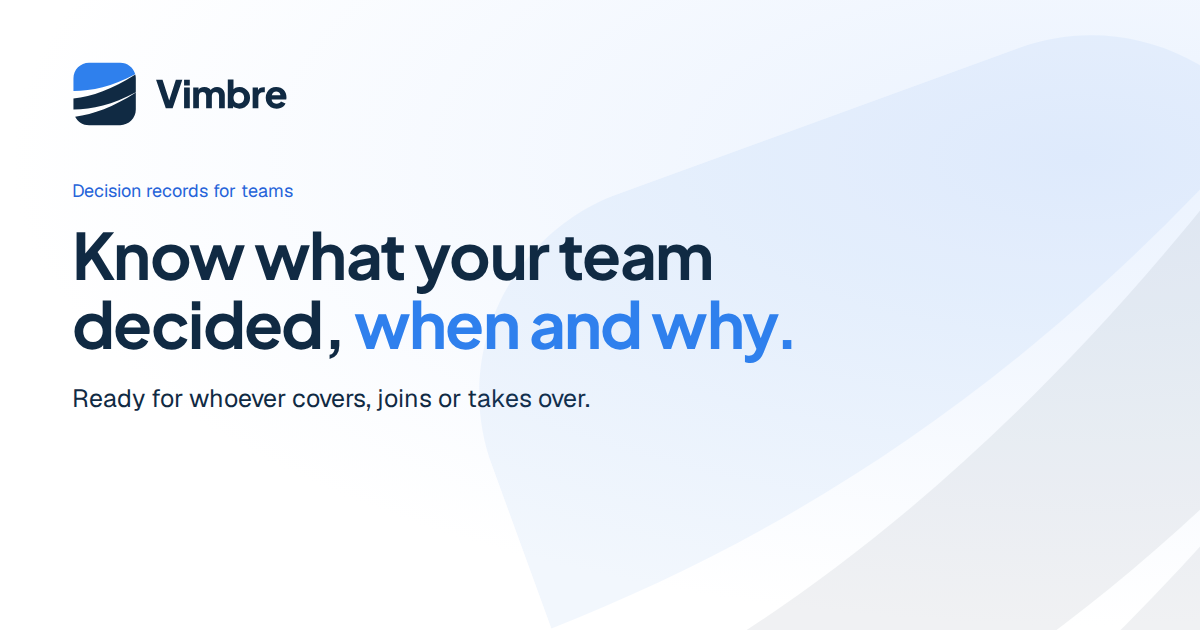
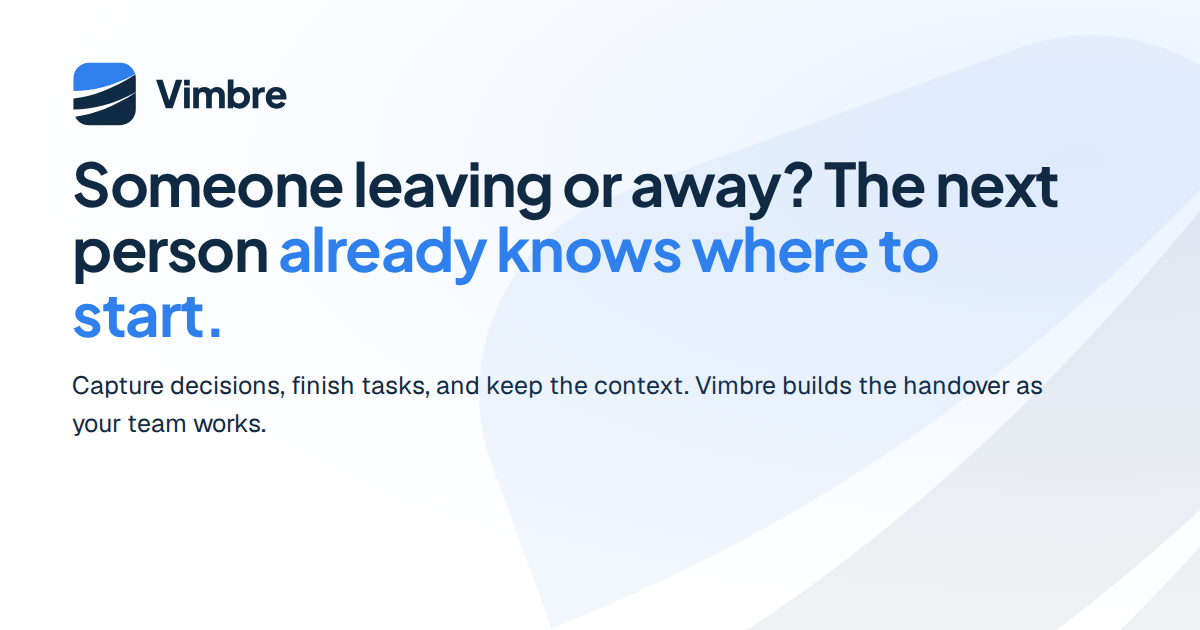
Align runtime page title and share image with revised homepage copy

Changed region(s): [[0.0617, 0.2413, 0.8942, 0.573], [0.0617, 0.6032, 0.8633, 0.6937]]

diff --git a/src/app/App.tsx b/src/app/App.tsx
@@ -66,7 +66,7 @@ function PageFocus() {
 
       document.title =
         pathname === '/'
-          ? 'Vimbre | Decision Records for Teams and Handovers'
+          ? 'Vimbre | Handover and Knowledge Retention for Teams'
           : `${heading.textContent} | Vimbre`
 
       window.dispatchEvent(new Event('vimbre:ready'))

diff --git a/docs/landing-repositioning.md b/docs/landing-repositioning.md
@@ -38,7 +38,7 @@ Production CI runs scripts/audit-public.cjs to record actual custom-domain statu
 
 ## Founder revision received 21 October 2026
 
-The owner supplies Pasted text(7).txt and screenshots of misaligned connector paths. This revision supersedes the previous decision-record lead and old 8.6-second tile animation. Use the new situation headline, daily loop, Week 1/4/12 role-record visual, Employees/Managers audience cards, six FAQs including Notion/ClickUp/Trello, and updated search/social copy. The supplied hero headline plus main line is 30 words; the exact additional small line and CTA labels take the total beyond 35. Preserve the explicitly supplied copy rather than silently deleting it. At a 5/7 column split the complete 56px headline cannot fit three lines; validate readable wrapping instead of clipping it.
+The owner supplies Pasted text(7).txt and screenshots of misaligned connector paths. This revision supersedes the previous decision-record lead and old 8.6-second tile animation. Use the new situation headline, daily loop, Week 1/4/12 role-record visual, Employees/Managers audience cards, six FAQs including Notion/ClickUp/Trello, and updated search/social copy. The supplied hero headline plus main line is 28 words; the exact additional small line and CTA labels take the total beyond 35. Preserve the explicitly supplied copy rather than silently deleting it. At a 5/7 column split the complete 56px headline cannot fit three lines; validate readable wrapping instead of clipping it.
 
 Use one 13.2-second desktop product window, 9 seconds on mobile, two plays and a static final cover frame, following the revised scene-specific playback rule rather than the stale three-loop checklist. The window uses the existing BrandLogo, Card, Button and WorkspaceIcon components with isolated sample data. It never submits data or reads an inbox. The AI scene keeps the required check-before-saving label and a Coming soon status because AI is not implemented. Notes is the only verified tools input: one line now connects it to the supplied mark using a shared layout and non-letterboxed SVG coordinates. No floating endpoint paths remain in the hero.
 
